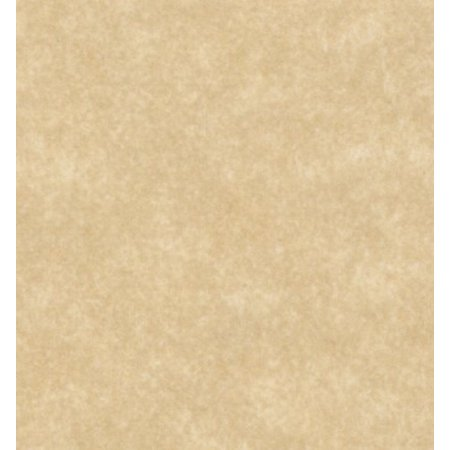
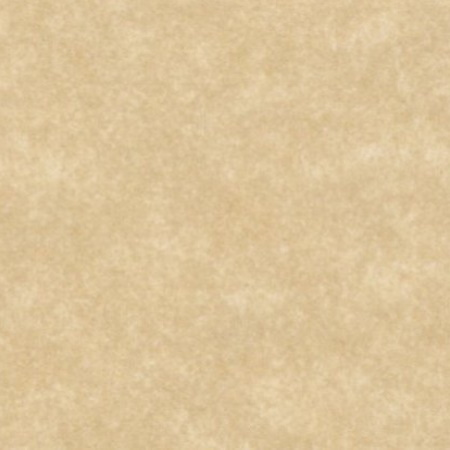
Fixed background images

Changed region(s): [[0.9644, 0.0, 1.0, 1.0], [0.0, 0.0, 0.0622, 1.0]]

diff --git a/style.css b/style.css
@@ -11,7 +11,7 @@ a {
 }
 
 body {
-background-image: url(images/wood-364693_960_720.jpg);
+background-image: url(images/wood-2045379_960_720.webp);
 background-repeat: no-repeat;
 background-size: cover;
 }
